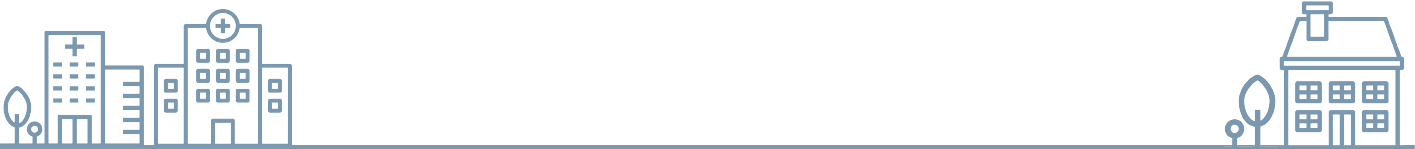
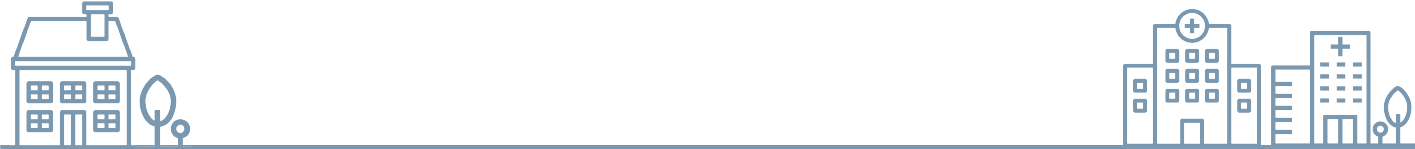
flip image manually instead of thru css

Changed region(s): [[0.7774, 0.0, 1.0, 1.0], [0.0, 0.0, 0.2177, 0.9933]]

diff --git a/css/landing-carousel.css b/css/landing-carousel.css
@@ -114,7 +114,5 @@
     object-fit: contain;
     z-index: 0;
     margin-bottom: -6px;
-    -webkit-transform: scaleX(-1);
-    transform: scaleX(-1);
     margin-left: 65px;
 }
